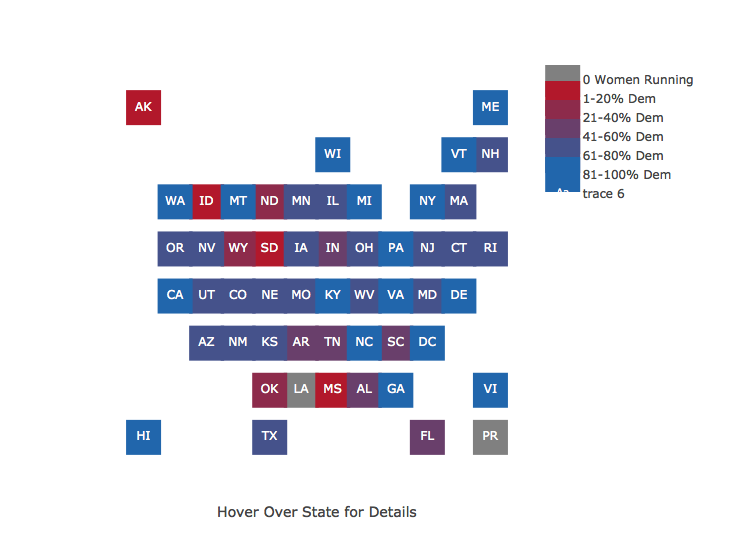
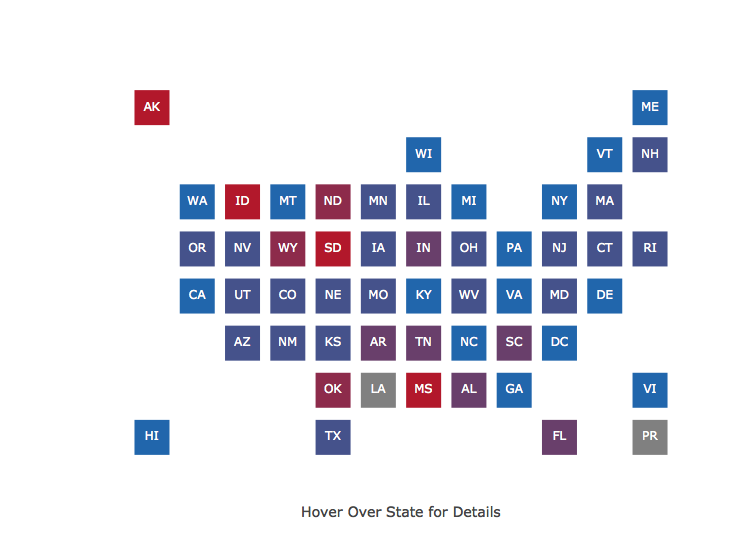
remove unused factor levels

diff --git a/ScrapeCandidates.md b/ScrapeCandidates.md
@@ -163,7 +163,8 @@ elections <- elections %>%
         mutate(percentdem = ifelse(party == "D", percentparty, 100-percentparty)) %>%
         mutate(percentrepub = 100-percentdem) %>%
         subset(!(Abbreviation %in% c("","Guam"))) %>%
-        rename(Office = office,Candidate = candidate,Party = party, District = dist)
+        rename(Office = office,Candidate = candidate,Party = party, District = dist) %>%
+        droplevels()
 ```
 
 Make data for map: select a subset of needed variables and remove duplicates so there is only one row per state. Rename variables to be readable for the map's hover text. Change abbreviation `state` and full name `State` from factor to character variables and change `NA` values to `0` for hover text.
@@ -217,8 +218,10 @@ Make the `plotly` - based map for use in a `shiny` app.
 
 The full `shiny` app code, including code for the `datatable` section of the app, can be found in the `app.R` file in [this GitHub repo](https://github.com/JListman/Scrape_WomenRunning_CAWP).
 
+Make `plotly` - based map for use in a `shiny` app. Full `shiny` app can be found in [this github repo](https://github.com/JListman/Scrape_WomenRunning_CAWP).
+
 ``` r
- y_Axis <- list(title = "",
+y_Axis <- list(title = "",
                 zeroline = FALSE,
                 showline = FALSE,
                 showticklabels = FALSE,
@@ -232,7 +235,7 @@ x_Axis <- list(title = "Hover Over State for Details",
                showgrid = FALSE
                 )
                 
-plot_ly(statedata, x = ~col, y = ~-row) %>%
+hovermap<- (plot_ly(statedata, x = ~col, y = ~-row) %>%
         add_markers(color = ~bins,
                     colors = mapcolors,
                     text = ~txt,
@@ -241,7 +244,10 @@ plot_ly(statedata, x = ~col, y = ~-row) %>%
                     hoverinfo = "text"
                     ) %>%
         add_text(text = ~state, color = I("white"), hoverinfo = "none") %>%
-        layout(showlegend = TRUE, xaxis = x_Axis, yaxis = y_Axis)
+        layout(showlegend = FALSE, xaxis = x_Axis, yaxis = y_Axis)
+)
+    
+hovermap            
 ```
 
 ![](ScrapeCandidates_files/figure-markdown_github/plot_map-1.png)
